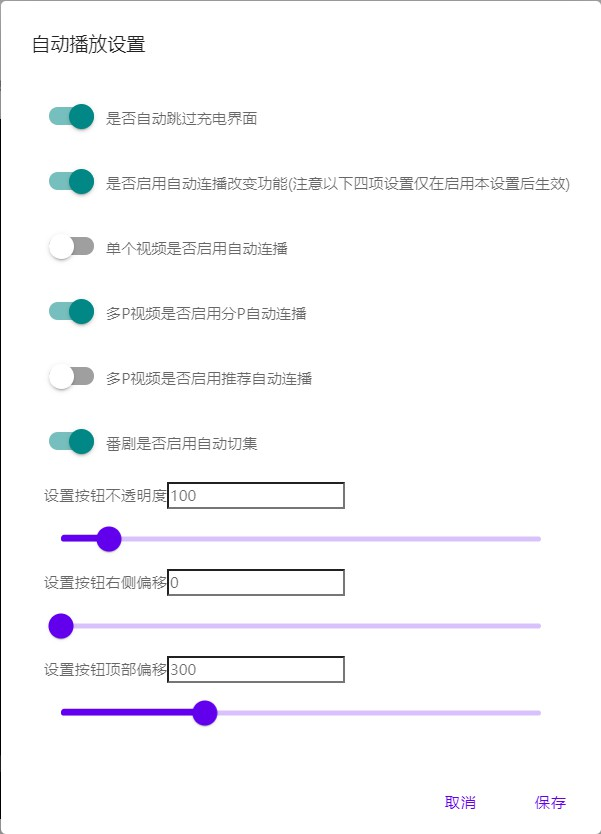
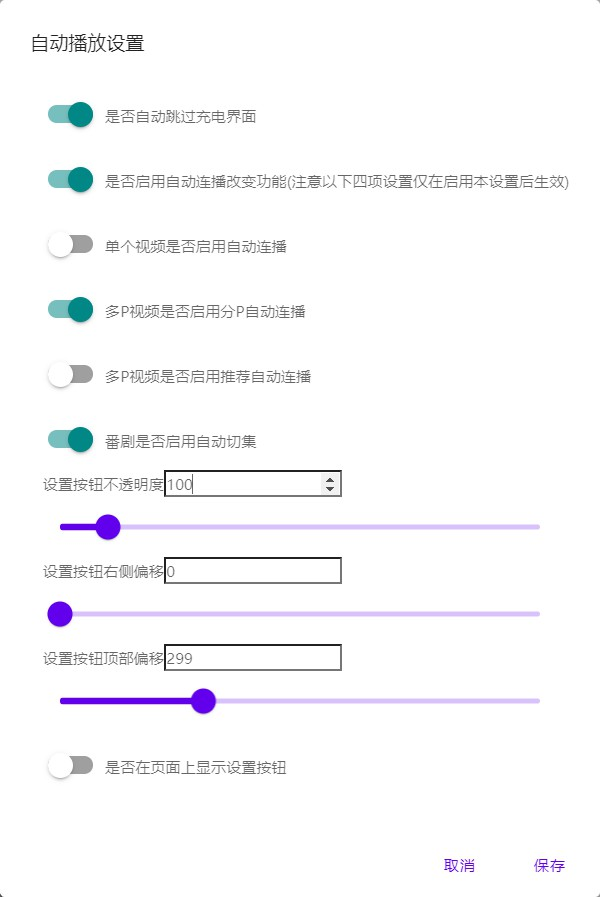
FEATURE:是否在页面上显示设置按钮 更新README中的设置对话框图片

diff --git a/BilibiliSmallTools.js b/BilibiliSmallTools.js
@@ -584,6 +584,19 @@
                                 </div>
                             </div>
                         </li>
+                        <li class="mdc-list-item" role="switch">
+                            <span class="mdc-list-item__graphic">
+                                <div id="SettingShowSettingButton" class="mdc-switch">
+                                    <div class="mdc-switch__track"></div>
+                                    <div class="mdc-switch__thumb-underlay">
+                                        <div class="mdc-switch__thumb">
+                                            <input type="checkbox" id="SettingShowSettingButtonInput" class="mdc-switch__native-control">
+                                        </div>
+                                    </div>
+                                </div>
+                            </span>
+                            <label class="mdc-list-item__text" for="SettingBangumiAutoPlayInput">是否在页面上显示设置按钮</label>
+                        </li>
                     </ul>
                 </div>
                 <div class="mdc-dialog__actions">
@@ -633,6 +646,7 @@
       let jQ_SettingButtonTopPositionManualInput = $(
         "#SettingSettingButtonTopPositionManualInput"
       );
+      let jQ_ShowSettingButtonSwitch = $("#SettingShowSettingButton");
 
       let skipChargeSwitch = mdc.switchControl.MDCSwitch.attachTo(
         jQ_SkipChargeSwitch[0]
@@ -662,6 +676,9 @@
       );
       let settingButtonTopPositionSlider = mdc.slider.MDCSlider.attachTo(
         jQ_SettingButtonTopPositionSlider[0]
+      );
+      let showSettingButtonSwitch = mdc.switchControl.MDCSwitch.attachTo(
+        jQ_ShowSettingButtonSwitch[0]
       );
 
       MDCDialog.listen("MDCDialog:opened", () => {
@@ -770,6 +787,7 @@
       let settingButtonTopPosition = currentSettings.settingButtonTopPosition;
       settingButtonTopPositionSlider.setValue(settingButtonTopPosition);
       jQ_SettingButtonTopPositionManualInput.val(settingButtonTopPosition);
+      showSettingButtonSwitch.checked = currentSettings.showSettingButton;
 
       $("#SettingDialogCancelButton").on({
         click: () => {
@@ -793,6 +811,7 @@
             settingButtonRightPositionSlider.getValue();
           currentSettings.settingButtonTopPosition =
             settingButtonTopPositionSlider.getValue();
+          currentSettings.showSettingButton = showSettingButtonSwitch.checked;
           settingsStorage.saveSettings(currentSettings);
           showMDCSnackbar("设置保存成功");
           MDCDialog.close();
@@ -871,6 +890,9 @@
 
   let VIDEO_PAGE_PLAY_LIST_OBJ;
   function onVideoPage() {
+    GM_registerMenuCommand("设置", () => {
+      injectSettingDialog(true);
+    });
     let observer = new MutationObserver((mutationRecords, instance) => {
       mutationRecords.forEach((mutationRecord) => {
         //没有添加节点
@@ -946,6 +968,7 @@
       if (currentSettings.showSettingButton) {
         injectSettingButton();
       }
+      console.log("无需注入设置按钮");
     });
 
     $(document).on({
